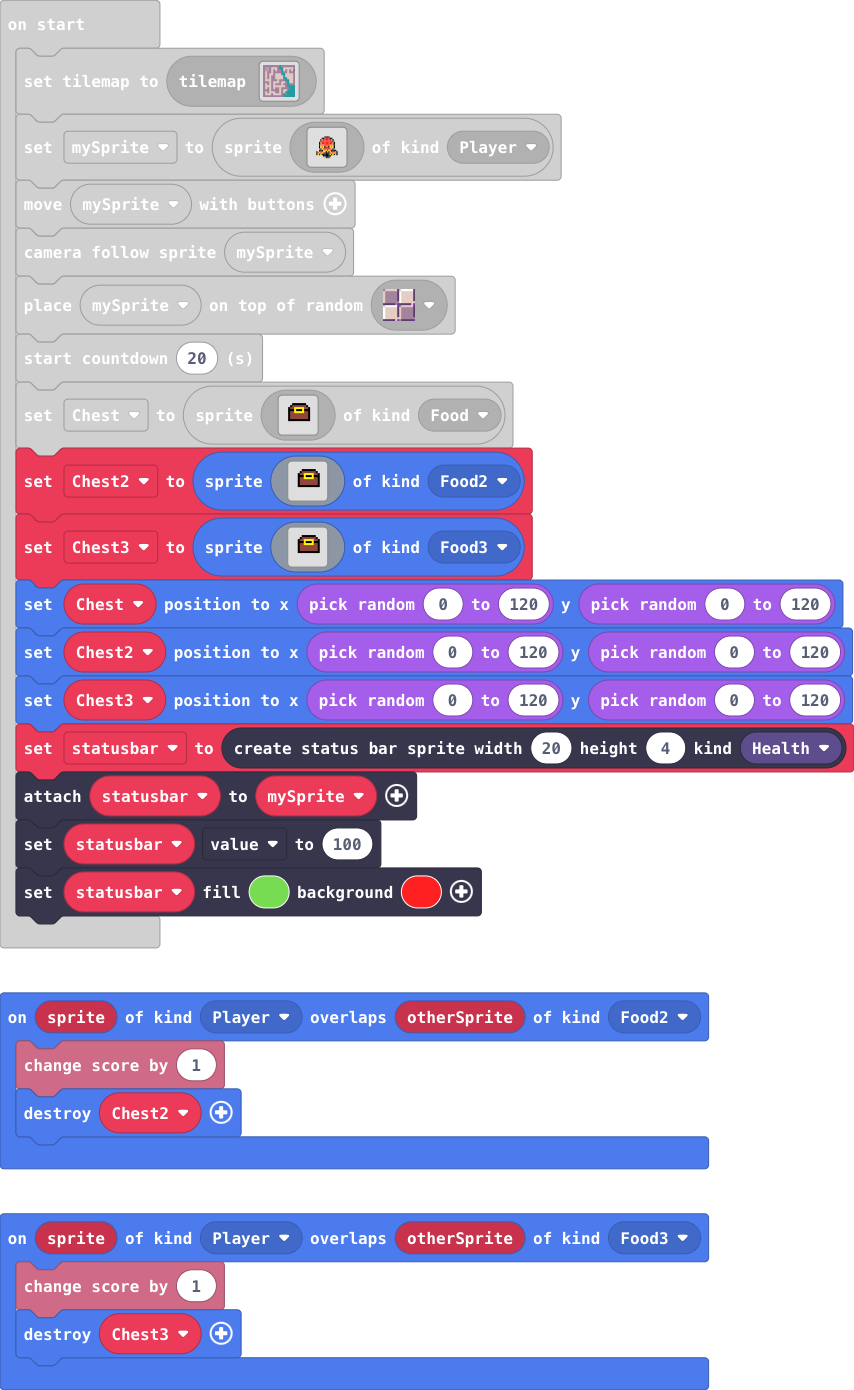
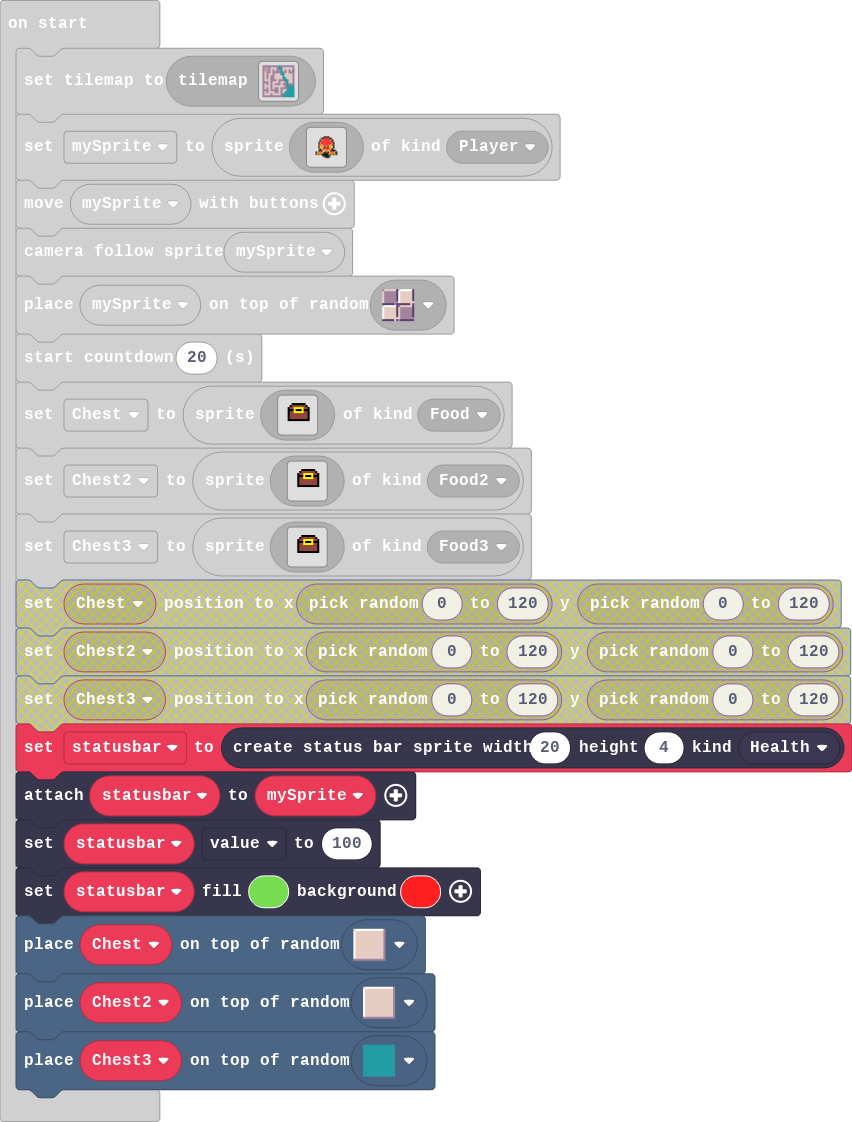
Update main.blocks, main.ts

diff --git a/main.ts b/main.ts
@@ -105,9 +105,9 @@ Chest3 = sprites.create(img`
     . . . . . . . . . . . . . . . . 
     . . . . . . . . . . . . . . . . 
     `, SpriteKind.Food3)
-Chest.setPosition(randint(0, 120), randint(0, 120))
-Chest2.setPosition(randint(0, 120), randint(0, 120))
-Chest3.setPosition(randint(0, 120), randint(0, 120))
+tiles.placeOnRandomTile(Chest, sprites.dungeon.floorLight2)
+tiles.placeOnRandomTile(Chest2, sprites.dungeon.floorLight2)
+tiles.placeOnRandomTile(Chest3, assets.tile`myTile`)
 let statusbar = statusbars.create(20, 4, StatusBarKind.Health)
 statusbar.attachToSprite(mySprite)
 statusbar.value = 100
